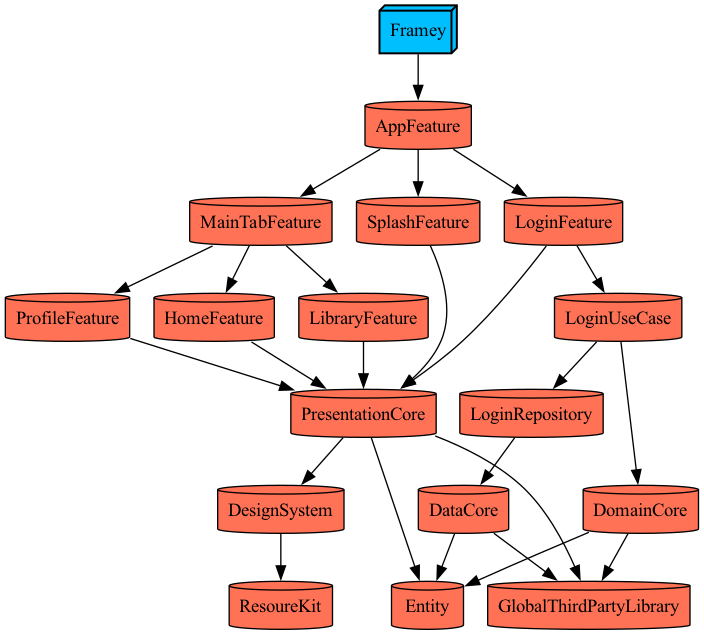
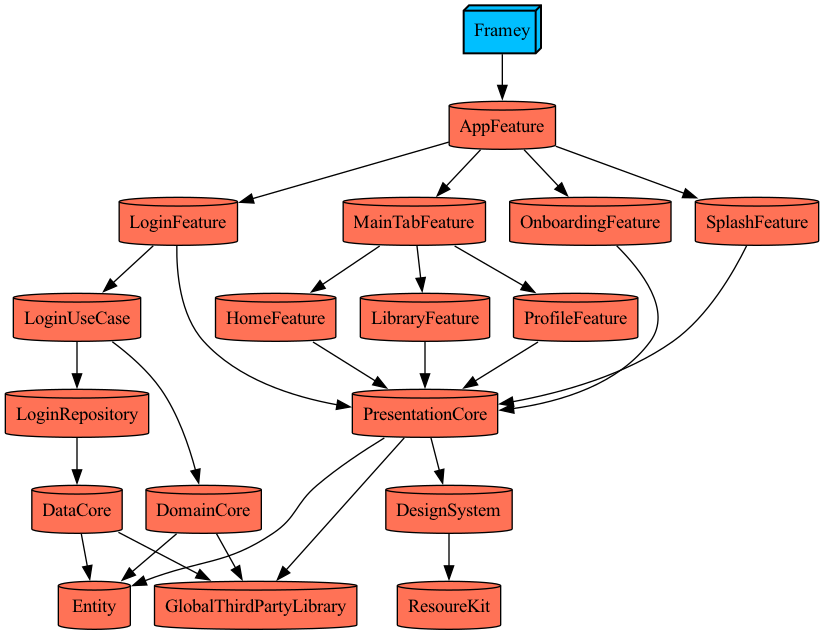
feat: OnboardingFeature 모듈 추가

diff --git a/Packages/Presentation/Project.swift b/Packages/Presentation/Project.swift
@@ -18,6 +18,7 @@ let project = Project.make(
         .target(name: "SplashFeature"),
         .target(name: "LoginFeature"),
         .target(name: "MainTabFeature"),
+        .target(name: "OnboardingFeature"),
       ]
     ),
     .presentation(
@@ -45,6 +46,12 @@ let project = Project.make(
         .target(name: "HomeFeature"),
         .target(name: "LibraryFeature"),
         .target(name: "ProfileFeature"),
+      ]
+    ),
+    .presentation(
+      name: "OnboardingFeature",
+      dependencies: [
+        .target(name: "PresentationCore"),
       ]
     ),
     .presentation(
